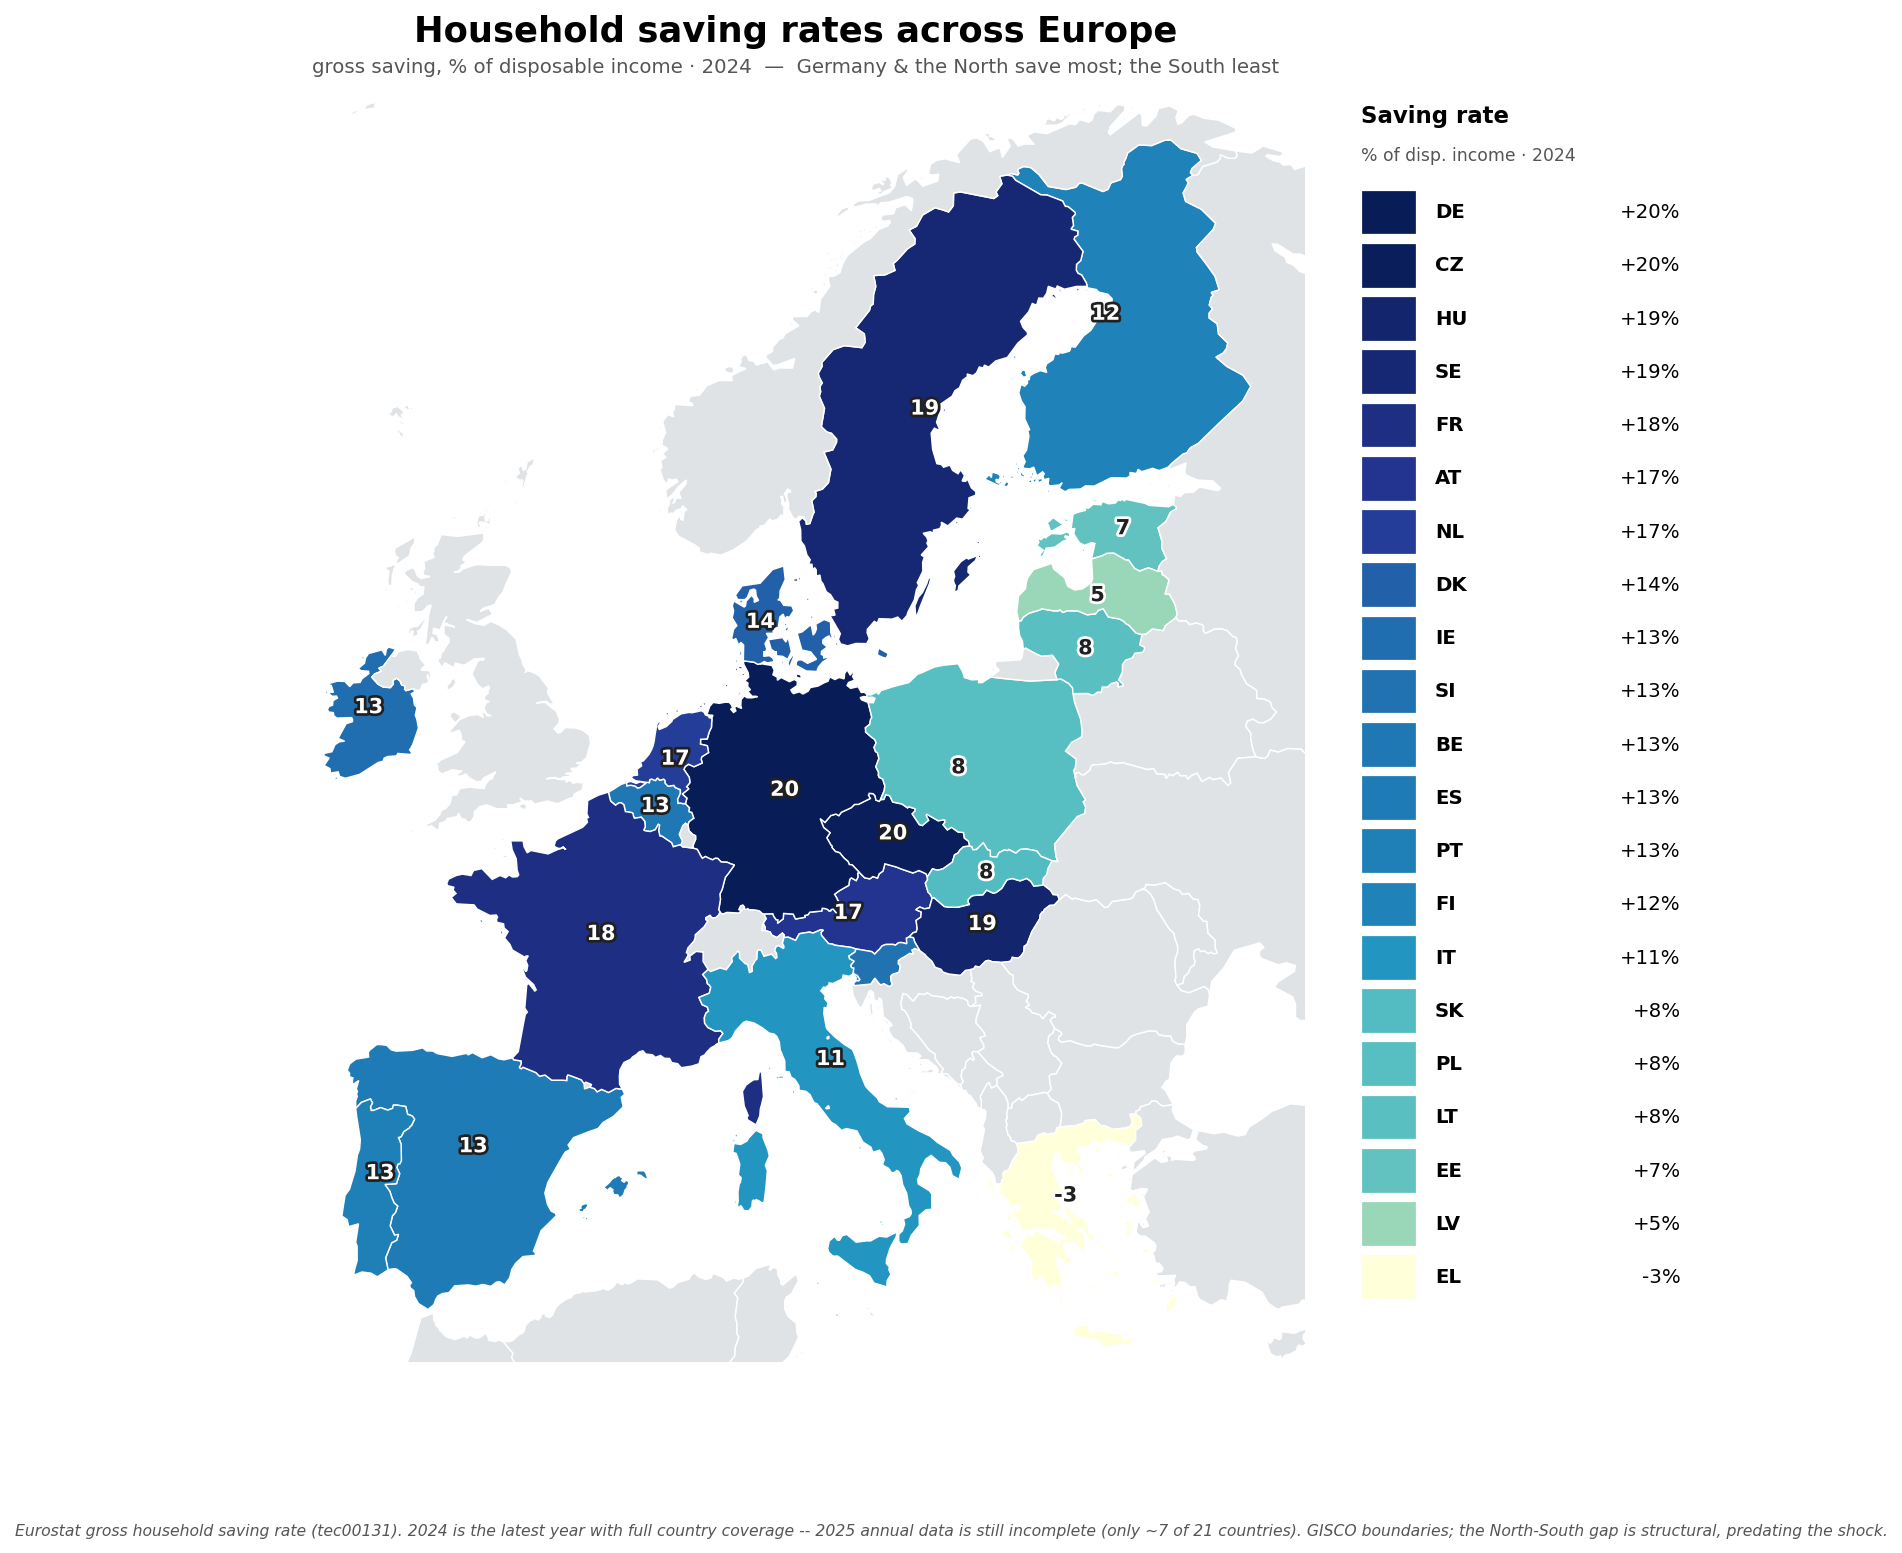
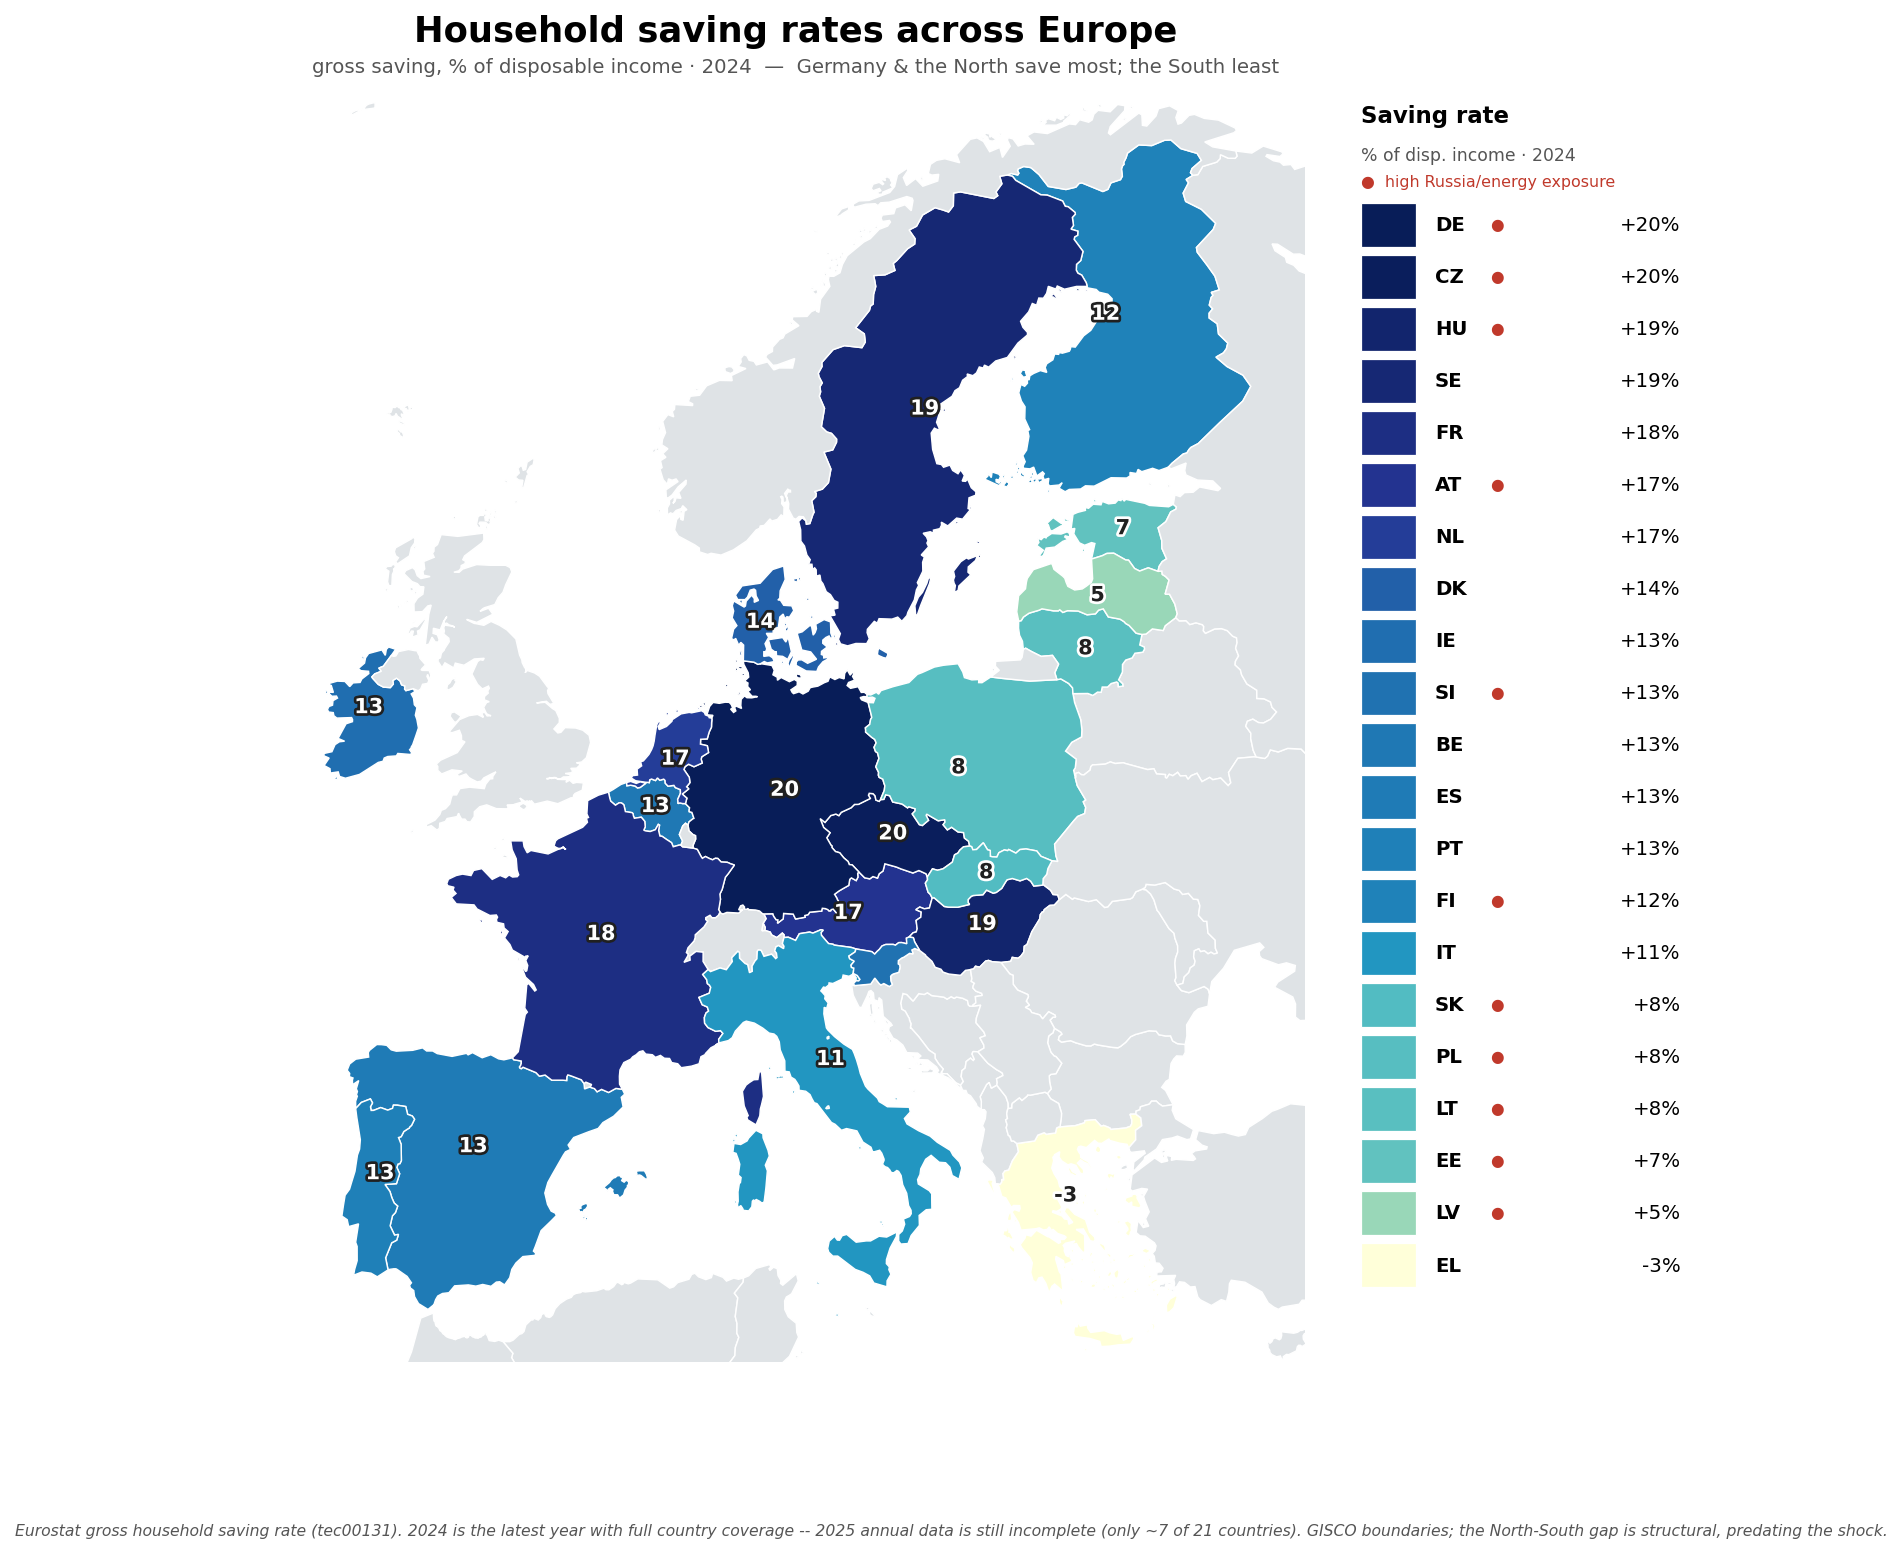
Figure review pt.2: B2→map merge, illiquidity-tilt (F4b/F5b)
- B2 (country saving bar) folded into the O3 Europe map: the ranked side-list
  already carries every country's level; added red dots marking high Russia/energy
  exposure (B2's one extra distinction). B2 figure deleted; europe_map paths fixed
  and outputs tagged (O3_/O_).
- F4b/F5b: new illiquidity-tilt variant T4 − (T1+T2+T3) from the ladder flows,
  vs the saving rate and vs the ECB rate (companion to the yield-tilt F4/F5).

Pending: L US-saving line (needs a confirmed OECD series; the L2 ladder already
renders via OECD), the econometrics/nowcast builds (Phase C), and the doc refresh.

diff --git a/code/follow_money/tilt_illiquidity.py b/code/follow_money/tilt_illiquidity.py
@@ -1,0 +1,139 @@
+#!/usr/bin/env python3
+"""
+Illiquidity tilt: T4 − (T1 + T2 + T3) vs saving and vs rates
+============================================================
+
+Companion to the yield-tilt plots (F4/F5). Instead of "locked-for-yield minus
+instant-access", this measures how far each year's saving is tilted into the most
+ILLIQUID tier of the liquidity ladder:
+
+    illiquidity tilt = net flow into T4  −  net flow into (T1 + T2 + T3)
+
+where (from the liquidity ladder, ESA instruments):
+    T1 instant   = F21 + F22            (cash, overnight)
+    T2 near-money= F29 + F521 + F31     (term/notice, MMF, short bonds)
+    T3 marketable= F32 + F511 + F522    (long bonds, listed shares, funds)
+    T4 illiquid  = F512 + F519 + F6     (unlisted equity, insurance/pension)
+
+Positive = households moved that year's saving INTO illiquid, contractual claims
+(pensions, life insurance, unlisted equity); negative = toward liquid tiers.
+
+Reads data/G_liquidity_ladder_flows.csv (run liquidity_ladder.py first), plus the
+saving rate and ECB rate from data/. Produces F4b (vs saving) and F5b (vs rates).
+    python tilt_illiquidity.py
+"""
+
+import os
+import glob
+
+import pandas as pd
+import matplotlib.pyplot as plt
+import matplotlib.patches as mpatches
+from matplotlib.ticker import FuncFormatter
+
+import _common as cm
+
+# --- run from the flattened repo layout ---
+cm.ROOT = os.path.dirname(os.path.dirname(cm.HERE))
+cm.ROOT_DATA = os.path.join(cm.ROOT, "data")
+cm.DATA = os.path.join(cm.ROOT, "data")
+cm.FIG = os.path.join(cm.ROOT, "figures")
+_orig_root_csv = cm.root_csv
+def _tagged_root_csv(name, required=True):
+    if not os.path.exists(os.path.join(cm.ROOT_DATA, name)):
+        hits = glob.glob(os.path.join(cm.ROOT_DATA, "?_" + name))
+        if hits:
+            return pd.read_csv(hits[0])
+    return _orig_root_csv(name, required)
+cm.root_csv = _tagged_root_csv
+
+START_YEAR = 2002
+
+
+def load_tilt():
+    path = os.path.join(cm.DATA, "G_liquidity_ladder_flows.csv")
+    if not os.path.exists(path):
+        raise SystemExit("Missing data/G_liquidity_ladder_flows.csv — run liquidity_ladder.py first.")
+    d = pd.read_csv(path)
+    d["illiq_tilt"] = (d["T4"] - (d["T1"] + d["T2"] + d["T3"])) / 1000.0   # EUR bn
+    return d[d["year"] >= START_YEAR][["year", "illiq_tilt"]].sort_values("year")
+
+
+def _annual(name, col):
+    q = cm.load_quarterly(name, col)
+    a = q.groupby(q.index.year).mean().rename(col)
+    a.index.name = "year"
+    return a
+
+
+def _tilt_bars(ax, df, ylabel):
+    colors = ["#117a65" if v >= 0 else cm.C_RED for v in df["illiq_tilt"]]
+    ax.bar(df["year"], df["illiq_tilt"], color=colors, width=0.8, zorder=2)
+    ax.axhline(0, color="black", lw=0.9)
+    ax.axvline(2021.5, color="grey", ls="--", lw=1)
+    ax.yaxis.set_major_formatter(FuncFormatter(lambda x, _: f"{x:,.0f}"))
+    ax.set_ylabel(ylabel)
+    ax.set_xlabel("year")
+
+
+def plot_vs_saving(df):
+    sav = _annual("ea_saving_rate_quarterly.csv", "saving")
+    d = df.merge(sav.reset_index(), on="year", how="inner")
+    fig, ax1 = plt.subplots(figsize=(11, 6))
+    ax2 = ax1.twinx(); ax2.grid(False)
+    _tilt_bars(ax1, d, "illiquidity tilt: T4 − (T1+T2+T3)  (EUR bn / yr)")
+    ax2.plot(d["year"], d["saving"], color=cm.C_NAVY, lw=3.0, ls=(0, (1, 1)), zorder=5)
+    ax2.set_ylim(0, 22); ax2.set_yticks([0, 5, 10, 15, 20])
+    ax2.yaxis.set_major_formatter(FuncFormatter(lambda x, _: f"{x:.0f}%"))
+    ax2.set_ylabel("household saving rate (% of disposable income)", color=cm.C_NAVY)
+    ax2.tick_params(axis="y", colors=cm.C_NAVY)
+    ax1.legend(handles=[mpatches.Patch(color="#117a65", label="into illiquid (T4 > liquid)"),
+                        mpatches.Patch(color=cm.C_RED, label="into liquid (T1–T3 > T4)"),
+                        plt.Line2D([], [], color=cm.C_NAVY, ls=(0, (1, 1)), lw=3,
+                                   label="saving rate (right)")],
+               loc="upper left", frameon=True, framealpha=0.9, edgecolor="none", fontsize=9)
+    ax1.set_title("Illiquidity tilt of household saving vs the saving rate\n"
+                  "net flow into illiquid (T4) minus liquid tiers (T1–T3), euro area",
+                  fontweight="bold")
+    fig.tight_layout()
+    cm.savefig(fig, "F4b_tilt_illiquidity_vs_saving.png")
+
+
+def plot_vs_rates(df):
+    rate = _annual("ecb_rate.csv", "rate")
+    d = df.merge(rate.reset_index(), on="year", how="inner")
+    corr = d["illiq_tilt"].corr(d["rate"])
+    fig, ax1 = plt.subplots(figsize=(11, 6))
+    ax2 = ax1.twinx(); ax2.grid(False)
+    _tilt_bars(ax1, d, "illiquidity tilt: T4 − (T1+T2+T3)  (EUR bn / yr)")
+    ax2.plot(d["year"], d["rate"], color=cm.C_PURPLE, lw=2.6, marker="o", ms=3, zorder=5)
+    ax2.yaxis.set_major_formatter(FuncFormatter(lambda x, _: f"{x:.0f}%"))
+    ax2.set_ylabel("ECB policy / short rate (%)", color=cm.C_PURPLE)
+    ax2.tick_params(axis="y", colors=cm.C_PURPLE)
+    ax1.legend(handles=[mpatches.Patch(color="#117a65", label="into illiquid (T4)"),
+                        mpatches.Patch(color=cm.C_RED, label="into liquid (T1–T3)"),
+                        plt.Line2D([], [], color=cm.C_PURPLE, lw=2.6, marker="o",
+                                   label="ECB rate (right)")],
+               loc="upper left", frameon=True, framealpha=0.9, edgecolor="none", fontsize=9)
+    ax1.set_title(f"Illiquidity tilt vs the ECB rate  (corr = {corr:+.2f})\n"
+                  "as rates rose, did saving move toward illiquid contractual claims?",
+                  fontweight="bold")
+    fig.tight_layout()
+    cm.savefig(fig, "F5b_tilt_illiquidity_vs_rates.png")
+    return corr
+
+
+def main():
+    df = load_tilt()
+    print("Illiquidity tilt T4 − (T1+T2+T3), EUR bn/yr (recent):")
+    for _, r in df[df["year"] >= 2019].iterrows():
+        print(f"  {int(r['year'])}: {r['illiq_tilt']:+.0f}")
+    plot_vs_saving(df)
+    corr = plot_vs_rates(df)
+    print(f"\ncorr(illiquidity tilt, ECB rate) = {corr:+.2f}")
+    df.to_csv(os.path.join(cm.DATA, "F_tilt_illiquidity.csv"), index=False)
+    print("Wrote data/F_tilt_illiquidity.csv")
+
+
+if __name__ == "__main__":
+    main()

diff --git a/code/descriptive/europe_map.py b/code/descriptive/europe_map.py
@@ -26,7 +26,25 @@ import matplotlib.pyplot as plt
 import matplotlib.colors as mcolors
 import matplotlib.patheffects as pe
 
+import glob
 import _common as C
+
+# --- run from the flattened repo layout: top-level data/ & figures/, tagged CSVs
+C.ROOT = os.path.dirname(os.path.dirname(C.HERE))      # code/descriptive -> repo root
+C.ROOT_DATA = os.path.join(C.ROOT, "data")
+C.DATA = os.path.join(C.ROOT, "data")
+C.FIG = os.path.join(C.ROOT, "figures")
+_orig_root_csv = C.root_csv
+def _tagged_root_csv(name, required=True):
+    if not os.path.exists(os.path.join(C.ROOT_DATA, name)):
+        hits = glob.glob(os.path.join(C.ROOT_DATA, "?_" + name))
+        if hits:
+            return pd.read_csv(hits[0])
+    return _orig_root_csv(name, required)
+C.root_csv = _tagged_root_csv
+
+# High Russia/energy exposure (folded in from the deleted B2 country bar).
+HIGH_EXPOSURE = {"DE", "AT", "FI", "PL", "CZ", "SK", "HU", "SI", "EE", "LV", "LT"}
 
 REPORT = []
 GISCO_URL = ("https://gisco-services.ec.europa.eu/distribution/v2/countries/"
@@ -148,18 +166,23 @@ def finish(fig, axm, axl, saving, cents, norm, year):
     items = sorted(saving.items(), key=lambda kv: kv[1], reverse=True)
     axl.text(0.0, 0.99, "Saving rate", fontsize=11, fontweight="bold", va="top")
     axl.text(0.0, 0.957, f"% of disp. income · {year}", fontsize=8.3, va="top", color="#555")
-    n = len(items); topy = 0.905; row = 0.88 / n
+    axl.text(0.0, 0.935, "●  high Russia/energy exposure", fontsize=7.6, va="top",
+             color="#c0392b")
+    n = len(items); topy = 0.895; row = 0.86 / n
     for i, (geo, val) in enumerate(items):
         y = topy - i * row
         axl.add_patch(plt.Rectangle((0.0, y - row * 0.42), 0.17, row * 0.84,
                                      facecolor=CMAP(norm(val)), edgecolor="white", lw=0.6))
+        mark = " ●" if geo in HIGH_EXPOSURE else ""
         axl.text(0.23, y, f"{geo}", fontsize=9.5, va="center", fontweight="bold")
+        if mark:
+            axl.text(0.40, y, "●", fontsize=7.5, va="center", color="#c0392b")
         axl.text(0.99, y, f"{val:+.0f}%", fontsize=9.5, va="center", ha="right")
 
     C.caveat(fig, f"Eurostat gross household saving rate (tec00131). {year} is the latest year with "
                   "full country coverage -- 2025 annual data is still incomplete (only ~7 of 21 "
                   "countries). GISCO boundaries; the North-South gap is structural, predating the shock.")
-    C.savefig(fig, "europe_saving_map.png")
+    C.savefig(fig, "O3_europe_saving_map.png")
 
 
 def main():
@@ -176,7 +199,7 @@ def main():
         gj = json.loads(C.http_get(GISCO_URL).text)
     except Exception as e:
         say(f"  GISCO boundaries failed: {e}")
-        with open(os.path.join(C.DATA, "europe_map.md"), "w") as f:
+        with open(os.path.join(C.DATA, "O_europe_map.md"), "w") as f:
             f.write("```\n" + "\n".join(REPORT) + "\n```\n")
         return
 
@@ -190,8 +213,8 @@ def main():
     finish(fig, axm, axl, saving, cents, norm, year)
 
     pd.Series(saving, name="saving_rate").rename_axis("geo").to_csv(
-        os.path.join(C.DATA, "europe_saving_map.csv"))
-    with open(os.path.join(C.DATA, "europe_map.md"), "w") as f:
+        os.path.join(C.DATA, "O_europe_saving_map.csv"))
+    with open(os.path.join(C.DATA, "O_europe_map.md"), "w") as f:
         f.write("```\n" + "\n".join(REPORT) + "\n```\n")
     print(f"\nWrote {os.path.relpath(os.path.join(C.DATA, 'europe_map.md'), C.ROOT)}")
 